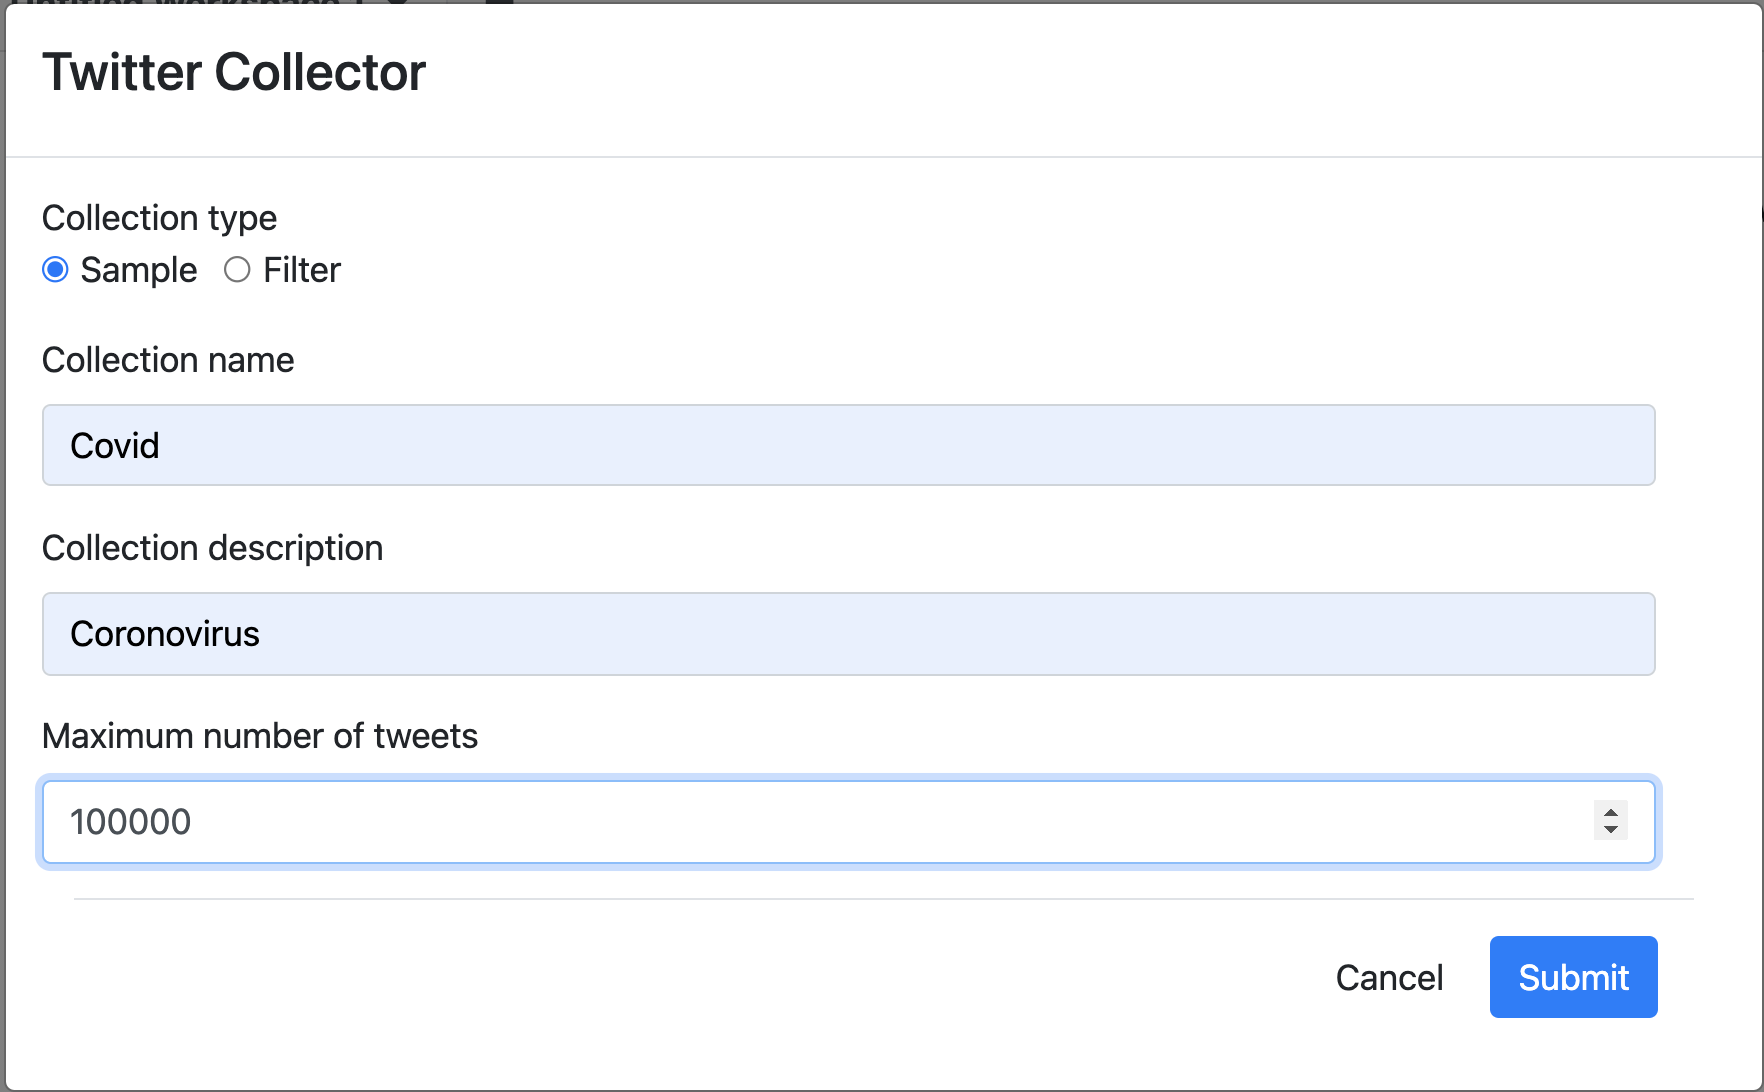
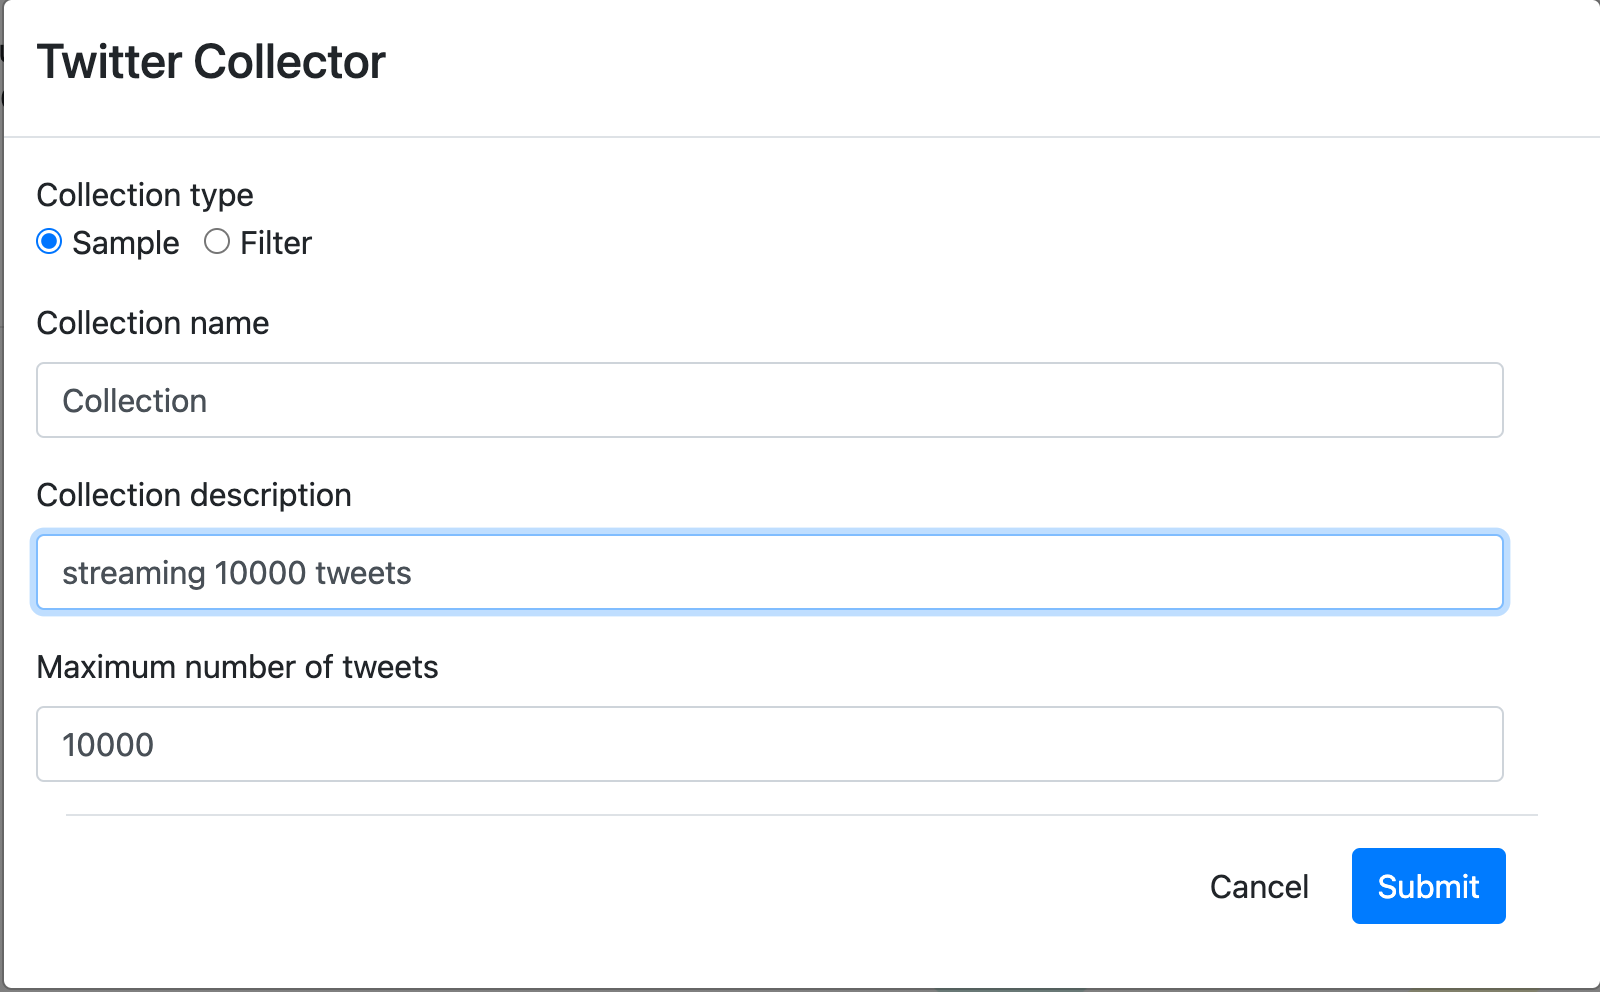
Edit data collection

diff --git a/setup.md b/setup.md
@@ -29,7 +29,7 @@ title: Setup COSMOS 2.0
 
 - A confirmation dialog warns about unverified developer. In the dialog, click on
 *Open* button.
-////**ADD SCREENSHOT**
+
 - As soon as you click *Open* button, a black pop-up window (Terminal) appears on the screen for **COSMOS self-check**. (Checkout the COSMOS self-check section below.)
 ![Parse Options](fig/Cosmos-self-check.png){:height="300px" width="500px"}
 
@@ -50,10 +50,10 @@ title: Setup COSMOS 2.0
 #### 3. COSMOS Self-Check:
 - When you start COSMOS for the first time, a self-check is run to ensure that COSMOS runs correctly. 
 - First of all, you need to press 'Enter' to begin the check as you inform on the Terminal window.
-**ADD SCREENSHOT** 
+
 - There are **three** steps in this self-check.
 - For each step you will ask whether you saw a warning. If you did, the self-check will exit and you are presented with a Finder window open in the corresponding folder of the file.
-**ADD SCREENSHOT** 
+
 
 **Step 1:** Trying to run MongoDB. When you see the warning press 'y'. In the Finder window, right-click (Control-click) on the `mongod` file, and from the context menu, select **Open**. 
 
@@ -69,8 +69,12 @@ After clicking **Open** from the context menu, you will receive a similar warnin
 
 ![Mac](fig/centrality-mac.png){:height="200px" width="500px"}
 
+![self check window](fig/selfcheck_steps.png){:height="300px" width="500px"}
+
 
 After completed all steps of self-check, your internet browser will open automatically and COSMOS will run on your machine locally.
+
+![cosmos running](fig/cosmos_running.png){:height="300px" width="650px"}
 
 The self-check is only run the first time you start COSMOS. Once everything is set up correctly and necessary permissions are granted, COSMOS will run directly when you start it.
 

diff --git a/_episodes/02-authorising_COSMOS.md b/_episodes/02-authorising_COSMOS.md
@@ -22,11 +22,16 @@ After installing and setting up the COSMOS Desktop, here we will authorise your 
 1. Click the plus button on the top left corner (in the show panel).
 2. Choose the *'Start Twitter Collection'* option from the dropdown list.
 3. Click the *'Sign in with Twitter'* button on the pop-up window. 
-**ADD SCREENSHOT**
+
+    ![sign with twitter](../fig/sign_twitter.png){:height="250px" width="500px"}
+
 4. Fill the form with your Twitter username and password and click the *'Authorize app'* button. If you do not have a Twitter account, you can sign up for Twitter by clicking the *'Sign up for Twitter'* on the top right corner of the page.
-**ADD SCREENSHOT**
+
+    ![sign with twitter form](../fig/authentication.png){:height="500px" width="400px"}
+
 5. After seeing the 'login was successful' message, you will see the Twitter Collector pop-up window that means COSMOS is ready to start collection.
-![Twitter Collector](../fig/Twitter_Collector.png){:height="500px" width="500px"}
+
+    ![Twitter Collector](../fig/Twitter_Collector.png){:height="500px" width="500px"}
 
 {% include links.md %}
 

diff --git a/_episodes/03-data_collection.md b/_episodes/03-data_collection.md
@@ -76,13 +76,12 @@ COSMOS provides filtering feature to narrow a collection while streaming data fr
 
 
 **Sample:**
-COSMOS can generate a sample dataset. 
+COSMOS can stream tweets without any filter or specification.
 1. Click `Start Twitter Collection`.
-2. Choose the collecting type as `Sample`.
-3. Unlike `Filter` option, you need to have a data collection to sample.
-4. Specify the `Collection name`, `Collection description` and `Maximum number of tweets` click the `Submit` button.
+2. Choose the collecting type as `Sample`. 
+3. Specify the `Collection name`, `Collection description` and `Maximum number of tweets` click the `Submit` button.
 ![Sample data](../fig/sample_data.png){:height="300px" width="500px"}
-5. Once you click, the sample dataset will appears on the showpanel.
+4. Once you click, the sample dataset will appears on the showpanel.
 
 > ## 3) More on Collections
 >
